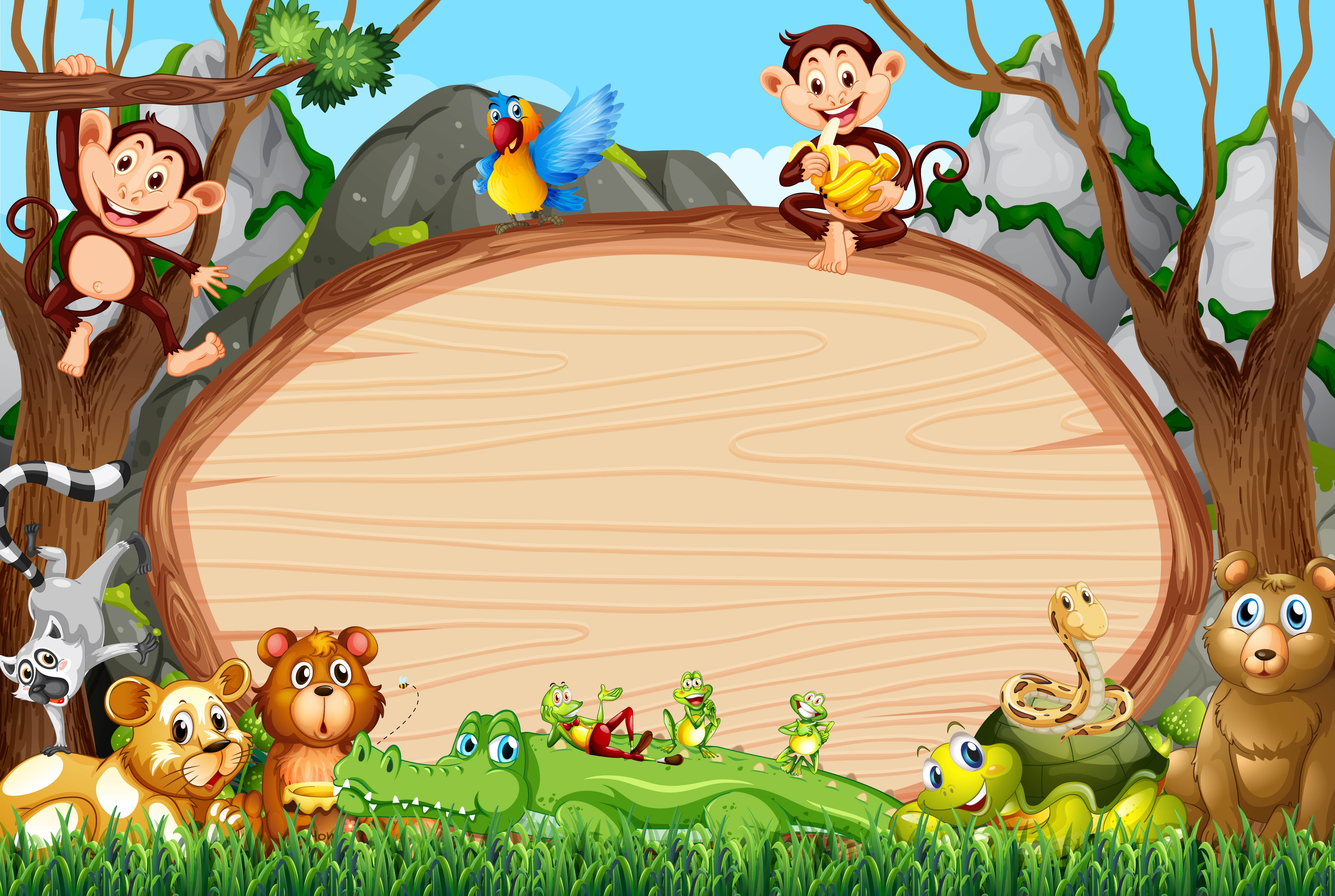
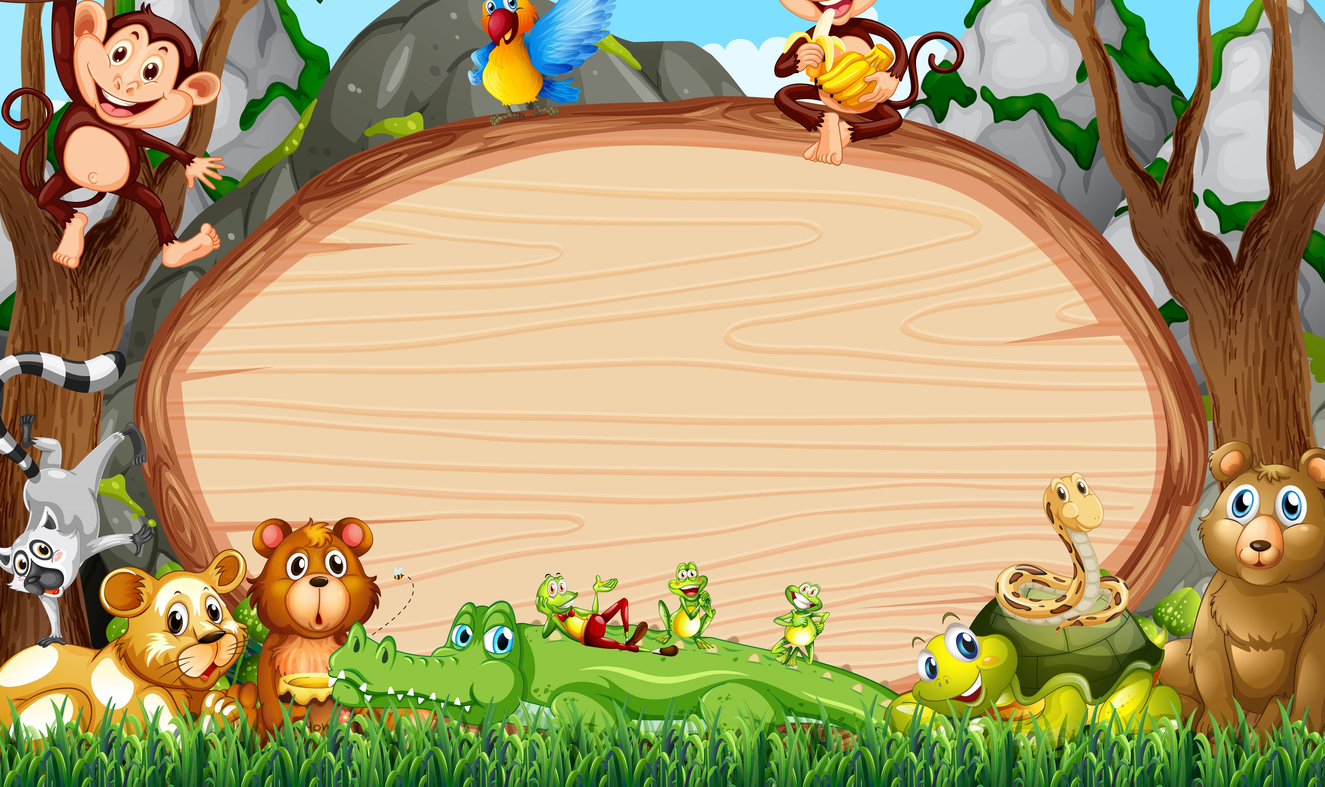
responsiveness adjusted

diff --git a/src/app/grade1/sinhala/sinhala-level1/sinhala-level1.component.html b/src/app/grade1/sinhala/sinhala-level1/sinhala-level1.component.html
@@ -9,13 +9,16 @@
   <script src="https://cdnjs.cloudflare.com/ajax/libs/popper.js/1.16.0/umd/popper.min.js"></script>
   <script src="https://maxcdn.bootstrapcdn.com/bootstrap/4.5.2/js/bootstrap.min.js"></script>
 </head>
-  
-<div class="container" class="image">
+<body style="background-size:cover;
+  background-image:url(/assets/images/1478.jpg);"
+>
+   
+<div class="container" class="image" style="height:890px;">
   <a href="/grade1/sinhala" style ='margin-top:65px;margin-left:60px;color:green;height:50px ;' class="previous button1">&laquo; Previous</a>
      
-    <h1 align ="center"><b>  සිංහල </b></h1>
- 
-        <div class="row">
+    <h1 align ="center" style="margin-top:100px ;"><b>  සිංහල </b></h1>
+
+        <div class="row" style="margin-top:50px ;">
             <div class="col-sm-3">
             </div>  
             <div class="col-sm-3">  
@@ -91,9 +94,7 @@
    </div>  
 </div>
   
-           
-        <br>
-        <br> 
+        
 </div>
 
 

diff --git a/src/app/grade1/sinhala/sinhala-level1/sinhala-level1.component.css b/src/app/grade1/sinhala/sinhala-level1/sinhala-level1.component.css
@@ -1,14 +1,6 @@
 @import "~bootstrap/dist/css/bootstrap.css";
  .bg{
-    height:40em; 
-    background-size:cover; 
-    background-image:url(/assets/images/1478.jpg);
-    margin-top:-50px;
-    background-image: url(/assets/images/1478.jpg);
-  
-    /* Center and scale the image nicely */
-    background-position: center;
-    background-repeat: no-repeat;
+   
     
 
 
